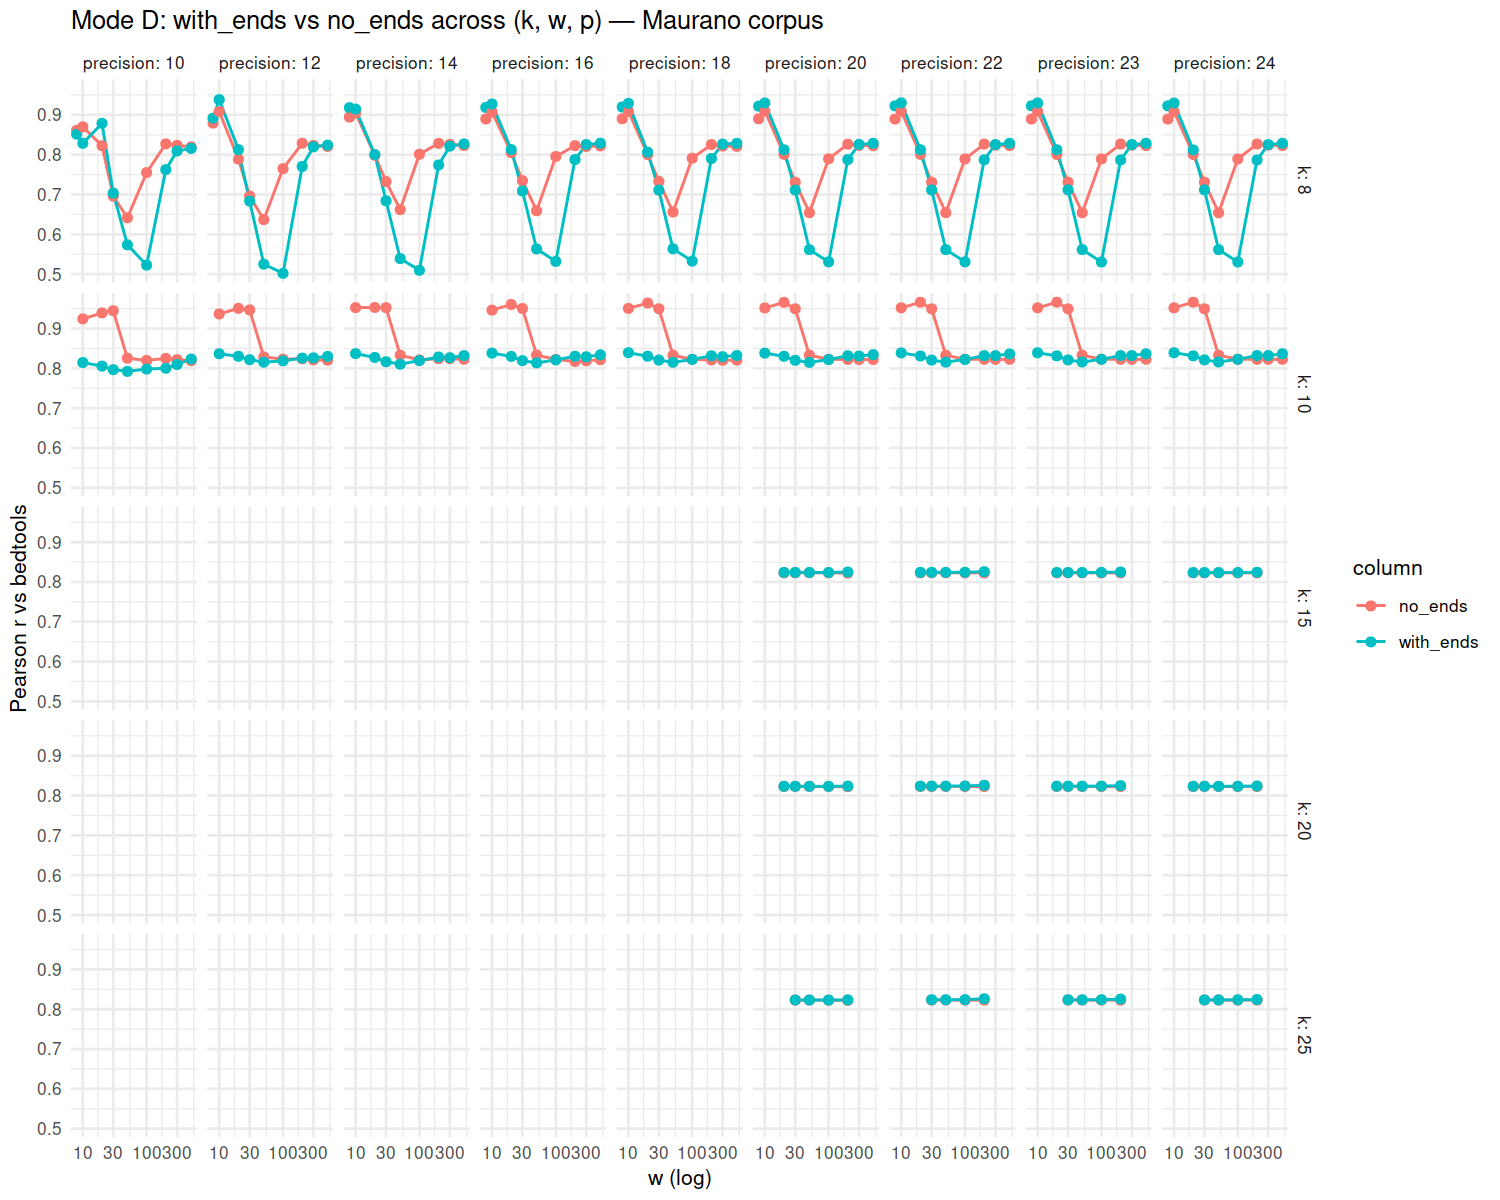
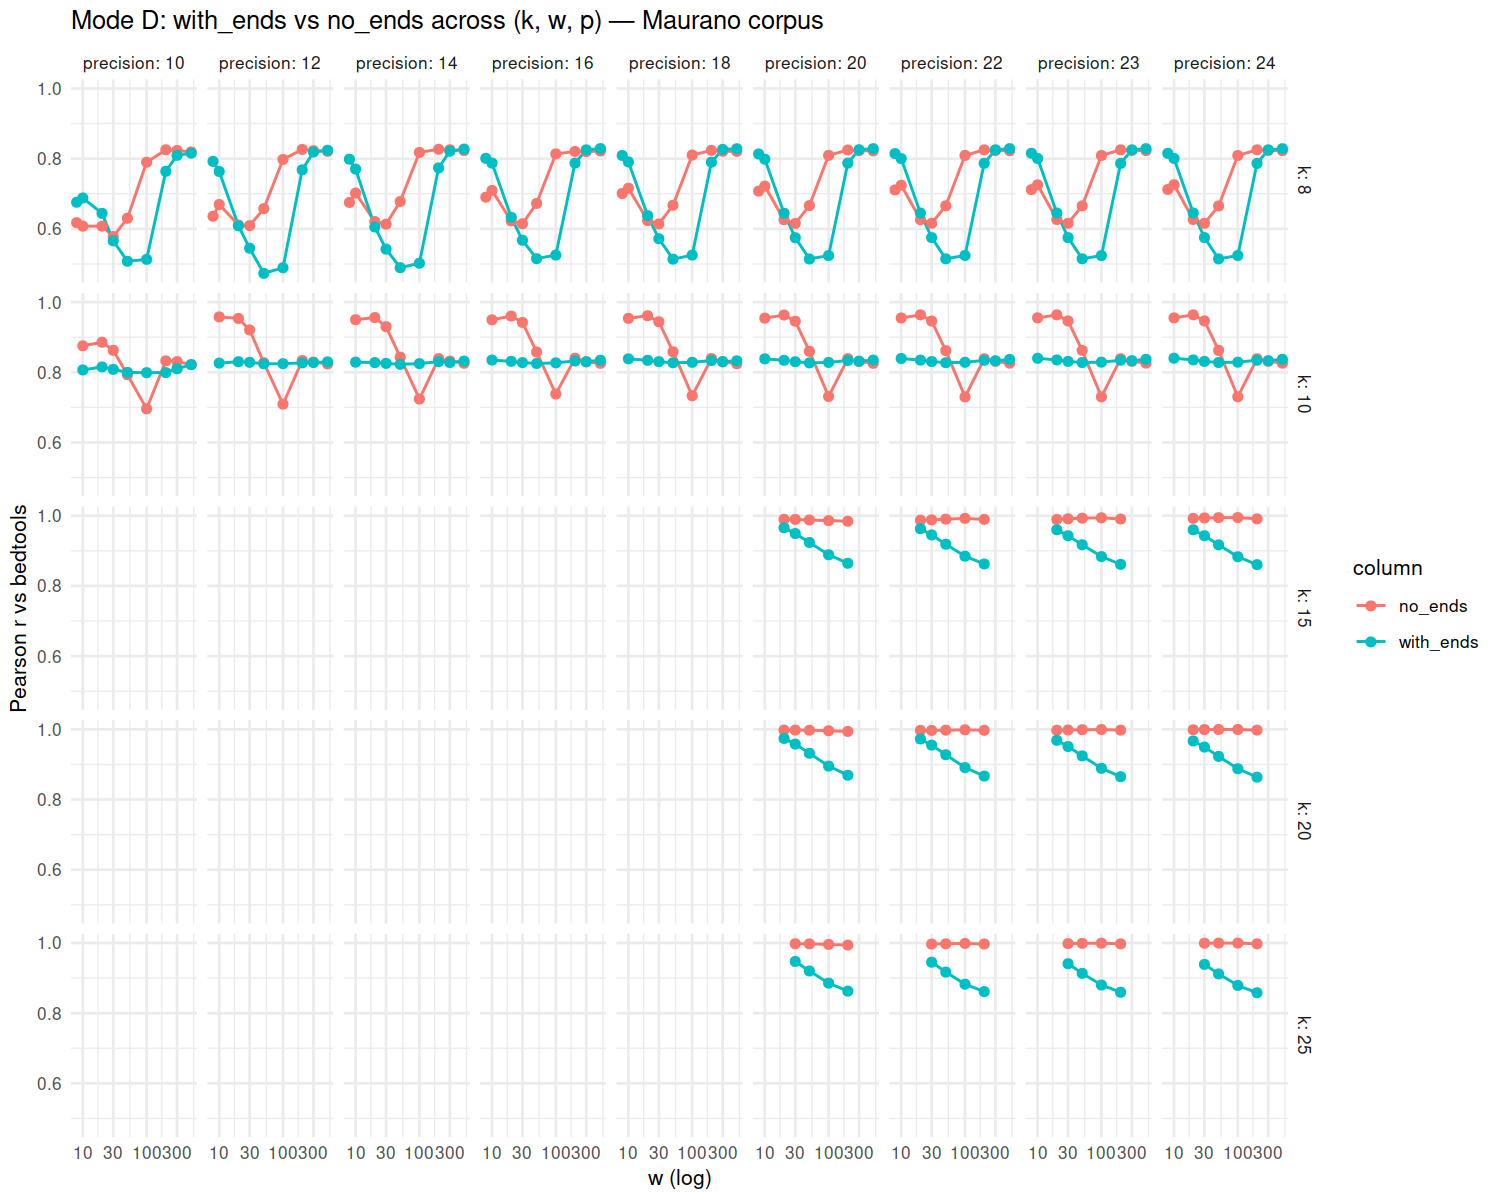
modeD_flanking: add Part 1 + Part 2 results and figures
README upgraded from design-only to full results writeup, plus four
new figures it references (Maurano Δmae vs φ, synthetic Δ vs φ,
synthetic phase diagram, synthetic empirical vs analytical). The two
corpora give opposite verdicts: Maurano DHS strongly favors no_ends
(47/209 configs r>0.99, peaking 0.9996), while synthetic uniform-ACGT
favors with_ends (62.2% cells on Mash residual).

diff --git a/experiments/modeD_flanking/README.md b/experiments/modeD_flanking/README.md
@@ -163,7 +163,85 @@ experiments/modeD_flanking/
 
 ## Status
 
-**Design only.** Scripts are stubs/skeletons; nothing has been run. Start
-with Part 1 — it's purely an R analysis on existing data and will tell us
-whether the hypothesis even survives contact with one real corpus before
-we spend cluster hours on the synthetic grid.
+Both parts run. **Re-run 2026-05-14** after the Mode D `no_ends` bug fix
+(see `CLAUDE.md` "Intentional divergences" §6 — pre-fix outputs are kept
+at `results/buggy_pre_fix/`). All numbers below are post-fix.
+
+---
+
+## Results
+
+### Part 1 — Maurano corpus (209 Mode D CSVs × 20 fetal-DHS samples vs bedtools)
+
+The Maurano sweep shows **`no_ends` dominates `with_ends`** when the goal
+is to recover bedtools-style interval Jaccard:
+
+| metric | best (k, w, p) | `no_ends` value | `with_ends` value at same cell |
+|---|---|---|---|
+| Pearson r | k=20, w=100, p=24 | **0.9996** | 0.888 |
+| MAE | k=25, w=100, p=24 | **0.0061** | (0.65 — much worse) |
+
+47 of 209 configs exceed r > 0.99 in `no_ends`. The φ-based hypothesis
+("flanking k-mers help capture more similarity") **does not survive
+contact with Maurano**: at large k + large w + high precision the
+minimizer-only sketch is nearly indistinguishable from bedtools, and
+adding flank k-mers introduces a systematic bias (with_ends mean
+prediction sits well above bedtools truth at small w, the classic
+flanking-inflation signature). The single regime where `with_ends`
+wins is small w (w ≈ 20) at large k, where the minimizer sample is
+sparse — a minor edge case.
+
+![](figures/maurano_delta_mae_vs_phi.png)
+
+The sign-flip with φ is largely a precision artefact: cool colours
+(p ≥ 18) cluster below zero, warm colours (p ≤ 16) cluster above. The
+"high φ ⇒ with_ends inflates" prediction is at most weakly supported.
+
+### Part 2 — synthetic random-ACGT corpus (192 pairs, 12 672 cells)
+
+On synthetic pairs with substitution-only mutation, **`with_ends` wins
+62.2% of cells on Mash residual against the true mutation rate**
+(`no_ends` wins 21.3%, ties 16.5%). Stratified by k:
+
+| k | with_ends wins | no_ends wins | tie |
+|---|---:|---:|---:|
+| 8  | 69.6 % | 16.6 % | 13.8 % |
+| 10 | 70.0 % | 15.7 % | 14.3 % |
+| 15 | 55.8 % | 26.0 % | 18.2 % |
+| 20 | 50.2 % | 29.0 % | 20.7 % |
+
+![](figures/synthetic_phase_diagram.png)
+
+`with_ends` advantage shrinks at high k — exactly where the boundary
+contribution (`2(k-1)·n_intervals` k-mers per record) becomes a smaller
+fraction of the interior k-mer pool. The phase diagram remains uniformly
+positive (with_ends wins everywhere), so the *direction* of the
+advantage is robust on uniform-random synthetic — but the *magnitude*
+matters, and at k ≥ 15 the two columns are roughly comparable.
+
+### Headline interpretation
+
+The two corpora give opposite verdicts:
+
+- **Maurano (real DHS peaks, 20 samples, thousands of records each):**
+  `no_ends` ≈ bedtools-perfect at the right config; `with_ends` adds
+  systematic positive bias.
+- **Synthetic (uniform iid ACGT, mutation-only divergence):** `with_ends`
+  modestly improves the Mash-residual estimate, mostly at smaller k.
+
+The most plausible reconciliation: on Maurano-like corpora, boundary
+k-mers collide *by coincidence* across samples (thousands of short
+peaks share boundary content despite biological divergence), which
+inflates `with_ends` above truth. On uniform-random synthetic, no such
+coincidental sharing happens, so the extra boundary content is pure
+signal.
+
+### Followup direction (not done yet)
+
+The synthetic generator can't reproduce the Maurano failure mode of
+`with_ends` because uniform-random sequences don't share boundary
+content by coincidence. A "shared-vocabulary" generator — draw record
+bodies from a fixed motif pool so that A and B share boundary k-mers
+by construction, not by mutation — would let us probe the boundary
+of where `with_ends` flips from helping to hurting. Scaffolded but not
+implemented.
